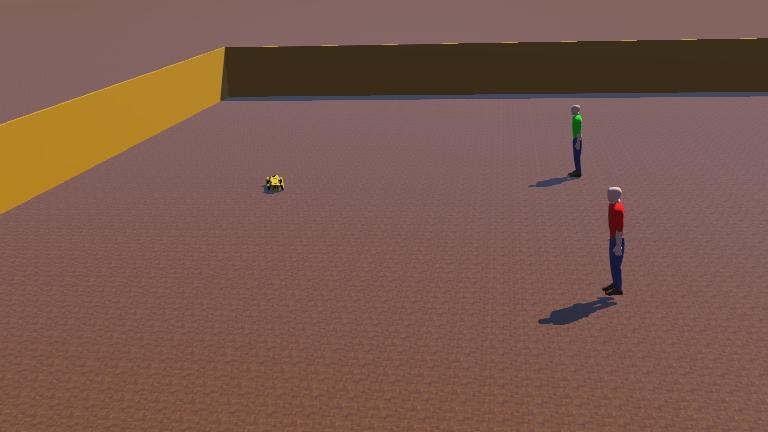
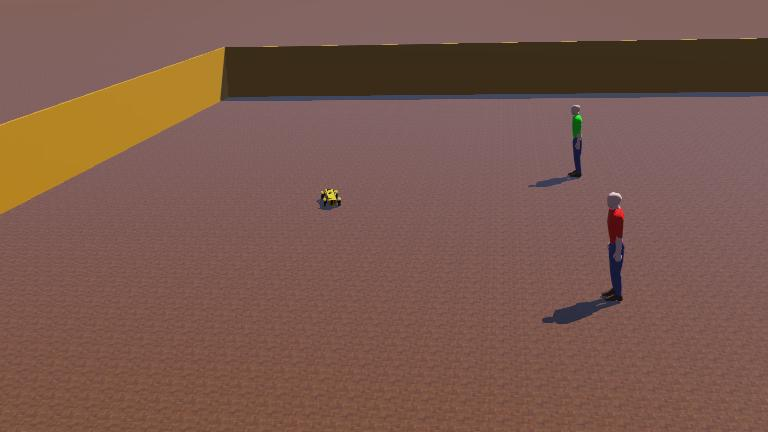
random theta added.

diff --git a/controllers/human2/human2.py b/controllers/human2/human2.py
@@ -1,5 +1,5 @@
 """
-    这个文件是人的控制器, 需要定义一些动作来完成对 虚拟环境下 预训练数据的构造
+    这个文件是踢狗人的控制器, 需要定义一些动作来完成对 虚拟环境下 预训练数据的构造
 
     大臂举平 是 -1.6到1.6
 
@@ -231,8 +231,8 @@ human1_color = human1.getField('shirtColor')
 flag_trans = flag.getField('translation')
 
 
-dx, dy, dz = dog1.getPosition() # 初始位置，
-hx, hy, hz = human1.getPosition()
+init_dx, init_dy, init_dz = dog1.getPosition() # 初始位置，
+init_hx, init_hy, init_hz = human1.getPosition()
 
 for i in range(0, myhuman.BODY_PARTS_NUMBER):
     myhuman.joints_position_field.append(human1.getField(myhuman.joint_names[i])) # 把所有关节的对象存起来
@@ -349,7 +349,7 @@ def wait_seconds(n):
     while myhuman.step(myhuman.time_step) != -1 and i<=n:
         i+=1
         time.sleep(0.1)
-def kick():
+def kick(dx, dy, hx, hy, force=1):
 
     time0 = myhuman.getTime()
     while myhuman.step(myhuman.time_step) != -1:
@@ -361,7 +361,7 @@ def kick():
             current_angle = myhuman.kick_angles[i][current_sequence] * (1 - ratio) + myhuman.kick_angles[i][(current_sequence + 1) % myhuman.kick_sequence_number] * ratio # 让动作可以连续过度到下一个
             myhuman.joints_position_field[i].setSFFloat(current_angle) # 1维的数据
         if current_sequence == myhuman.kick_sequence_number -1:
-            dog1.addForce([(dx-hx)*100, (dy-hy)*100, 0], True)
+            dog1.addForce([(dx-hx)*100 * force, (dy-hy)*100*force, 0], True)
             stand_up()
             break
 def hands_up():
@@ -378,12 +378,33 @@ def hands_up():
             stand_up()
             break
 
+def stand_behind_dog():
+    dx, dy, dz = dog1.getPosition() # 初始位置
+    ls = dog1.getOrientation() # 0 3 分别代表狗这时候的朝向的xy 向量
+    t_x = ls[0]
+    t_y = ls[3] # 可以对这个向量进行0-PI/3的旋转
+    rand_theta = random.uniform(-math.pi/3,math.pi/3) # 也就是出现在 狗的 后面 扇形-pi/3 ,pi/3的区间里
+    costheta = math.cos(rand_theta)
+    sintheta = math.sin(rand_theta)
+    t_x_new = costheta * t_x - sintheta * t_y # 旋转后的向量
+    t_y_new = sintheta * t_x + costheta * t_y
+    hx, hy, hz = human1.getPosition()
 
-def go_and_kick():
+    new_hx = dx - t_x_new*10
+    new_hy = dy - t_y_new*10
+
+    human1_trans.setSFVec3f([new_hx, new_hy, hz])   
+    myhuman.step(myhuman.time_step)
+
+def go_back_and_kick():
+        # 走到后面去给狗狠狠来一下
+        stand_behind_dog()
+        dx, dy, dz = dog1.getPosition() # 初始位置，决定了力的方向
+        hx, hy, hz = human1.getPosition()
         go_to_dog()
         stand_up()
         wait_seconds(10)
-        kick()
+        kick(dx, dy, hx, hy,1.5)
         wait_seconds(10)
         go_away_dog()
         stand_up()
@@ -397,8 +418,10 @@ if __name__ == '__main__':
 
     while True:
         if flag.getPosition()[0] > 50:
-            # print("human2 pos ", flag.getPosition()[0])
-            go_and_kick()
+            """ co = myhuman.getSelf().getField('shirtColor')
+            co.setSFVec3f([0,1,1]) """  # 设置颜色总会让控制器重新跑一次，不知道为什么
+            # print("dog oritation", dog1.getOrientation())
+            go_back_and_kick()
             flag_trans.setSFVec3f([0,0,0])
             myhuman.step(myhuman.time_step)
         else:

diff --git a/controllers/human_controller/human_controller.py b/controllers/human_controller/human_controller.py
@@ -239,8 +239,8 @@ human1_color = human1.getField('shirtColor')
 flag_trans = flag.getField('translation')
 flag_name = flag.getField('name')
 
-dx, dy, dz = dog1.getPosition() # 初始位置，
-hx, hy, hz = human1.getPosition()
+init_dx, init_dy, init_dz = dog1.getPosition() # 初始位置，
+init_hx, init_hy, init_hz = human1.getPosition()
 
 for i in range(0, myhuman.BODY_PARTS_NUMBER):
     myhuman.joints_position_field.append(human1.getField(myhuman.joint_names[i])) # 把所有关节的对象存起来
@@ -358,7 +358,8 @@ def wait_seconds(n):
         i+=1
         time.sleep(0.1)
 def kick():
-
+    dx, dy, dz = dog1.getPosition() # 初始位置，
+    hx, hy, hz = human1.getPosition()
     time0 = myhuman.getTime()
     while myhuman.step(myhuman.time_step) != -1:
         temp_time = myhuman.getTime() - time0
@@ -385,7 +386,24 @@ def hands_up():
         if current_sequence == myhuman.left_arms_number -1:
             stand_up()
             break
+def stand_before_dog():
+    dx, dy, dz = dog1.getPosition() # 初始位置
+    ls = dog1.getOrientation() # 0 3 分别代表狗这时候的朝向的xy 向量
+    t_x = ls[0]
+    t_y = ls[3] # 可以对这个向量进行0-PI/3的旋转
+    rand_theta = random.uniform(math.pi/6,math.pi/4) # 也就是出现在 狗的 后面 扇形-pi/3 ,pi/3的区间里
+    rand_theta = rand_theta if random.random() < 0.5 else -rand_theta
+    costheta = math.cos(rand_theta)
+    sintheta = math.sin(rand_theta)
+    t_x_new = costheta * t_x - sintheta * t_y # 旋转后的向量
+    t_y_new = sintheta * t_x + costheta * t_y
+    hx, hy, hz = human1.getPosition()
 
+    new_hx = dx + t_x_new*6
+    new_hy = dy + t_y_new*6
+
+    human1_trans.setSFVec3f([new_hx, new_hy, hz])   
+    myhuman.step(myhuman.time_step) # 更新
 def send_standup_cmd():
     global  flag_name
     # existing_shm.buf[:7] = b'standup'
@@ -401,6 +419,7 @@ def go_and_kick():
         wait_seconds(10)
 
 def go_and_arms_up():
+        stand_before_dog()
         go_to_dog()
         stand_up()
         wait_seconds(10)

diff --git a/controllers/main_control/cobot.py b/controllers/main_control/cobot.py
@@ -126,7 +126,7 @@ class Env:
         while True:
             _gyro_values =gyro.getValues()     
             # print(_gyro_values)       
-            if(max(_gyro_values)) > 0.7:
+            if(max(_gyro_values)) > 0.2:
                 print("receive a kick!")
                 self.gyro_err = 1
                 time.sleep(0.5)
